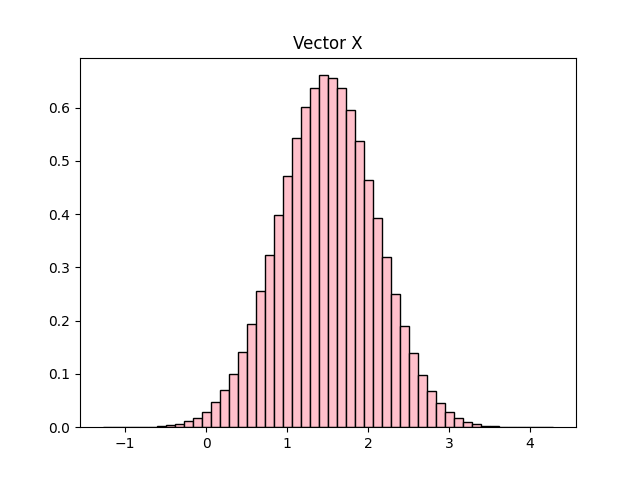
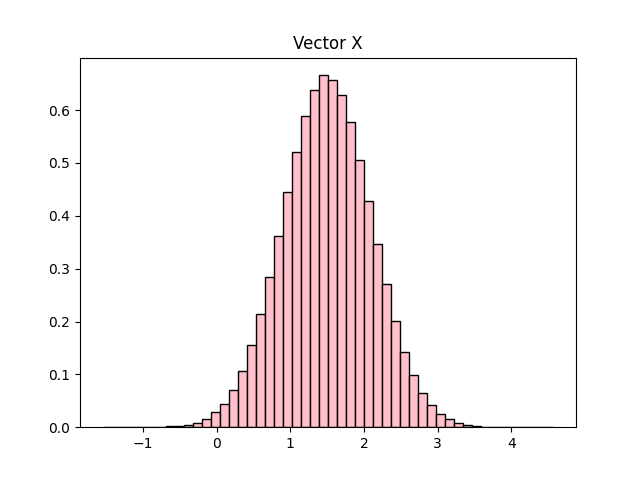
updated ps1q5

diff --git a/ps1_python_Sin_Beryl/ps1.py b/ps1_python_Sin_Beryl/ps1.py
@@ -7,10 +7,9 @@ import numpy as np
 import matplotlib.pyplot as plt
 from datetime import datetime
 import itertools
+from sklearn.utils import shuffle
 
 #----------------------------------QUESTION-3-PART-A---------------------------------------------
-# seed random number generator
-np.random.seed(1)
 # generate a 1000000x1 vector x of random numbers from a Gaussian distribution
 vector_x = np.random.randn(1000000)
 # scale vector x to ensure a mean of 1.5 with a standard deviation of 0.6
@@ -29,8 +28,6 @@ plt.hist(vector_x, bins=50, color='Pink', edgecolor='Black', density=True)
 plt.title('Vector X')
 plt.savefig('output/ps1-3-c-1.png') # output
 
-hist_x.show()
-
 # normalized histogram for vector y
 hist_z = plt.figure(2)
 plt.hist(vector_z, bins=50, color='Cyan', edgecolor='Black', density=True)
@@ -46,6 +43,7 @@ for i in itertools.product(*[range(s) for s in vector_x.shape]):
 # calculate and print execution time
 end_time = datetime.now() - start_time
 print('Question 3D execution time in hh:mm:ss : ', end_time)
+print('\n') # space
 
 
 #----------------------------------QUESTION-3-PART-E---------------------------------------------
@@ -56,6 +54,7 @@ vector_x += 1
 # calculate and print execution time
 end_time = datetime.now() - start_time
 print('Question 3E execution time in hh:mm:ss : ', end_time)
+print('\n') # space
 
 #----------------------------------QUESTION-3-PART-F---------------------------------------------
 # generate vector y containing elements that are numbers in vector z that are > 0 and < 1.5
@@ -65,6 +64,22 @@ for i in vector_z:
         vector_y.append(i)
 # print out number of elements in vector y
 print('Question 3F # elements :', len(vector_y))
+print('\n') # space
+
+# a function that does the above
+def q3PartFFunction():
+    vector_z = np.random.uniform(-1, 3, 1000000)
+    vector_y = [] # will be 1D
+    for i in vector_z:
+        if i > 0 and i < 1.5:
+            vector_y.append(i)
+    return vector_y
+
+# print out number of elements in vector y 2 more times (as if the code was ran twice more)
+print('Question 3F # elements (2nd time) :', len(q3PartFFunction()))
+print('\n') # space
+print('Question 3F # elements (3rd time) :', len(q3PartFFunction()))
+print('\n') # space
 
 #----------------------------------QUESTION-4-PART-A---------------------------------------------
 # define matrix a
@@ -96,7 +111,8 @@ print('Question 4A max values : ', r0_max, r1_max, r2_max)
 print('Question 4A highest value : ', max_value)
 print('Question 4A sums : ', c0_sum, c1_sum, c2_sum)
 print('Question 4A total sum : ', total_sum)
-print('Question 4A matrix b : ', matrix_b)
+print('Question 4A matrix b : \n', matrix_b)
+print('\n') # space
 
 #----------------------------------QUESTION-4-PART-B---------------------------------------------
 # define coefficient matrix
@@ -109,6 +125,7 @@ matrix_x = np.dot(np.linalg.inv(matrix_a), matrix_b)
 print('Question 4B x value : ', matrix_x[0])
 print('Question 4B y value : ', matrix_x[1])
 print('Question 4B z value : ', matrix_x[2])
+print('\n') # space
 
 #----------------------------------QUESTION-4-PART-C---------------------------------------------
 # define vector 1
@@ -118,7 +135,7 @@ vector_two = np.array([[-1, 1, 0]])
 # find 1-norm of each vector, adding all the magnitude values of each element
 x1_1norm = np.linalg.norm(vector_one[0, :], 1)
 x2_1norm = np.linalg.norm(vector_two[0, :], 1)
-# find 2-norm of each vector, distance - sqrt of sum of squared values of each element
+# find 2-norm of each vector, distance: sqrt of sum of squared values of each element
 x1_2norm = np.linalg.norm(vector_one[0, :], 2)
 x2_2norm = np.linalg.norm(vector_two[0, :], 2)
 # print results
@@ -126,4 +143,86 @@ print('Question 4C x1 1-norm value : ', x1_1norm)
 print('Question 4C x2 1-norm value : ', x2_1norm)
 print('Question 4C x1 2-norm value : ', x1_2norm)
 print('Question 4C x2 2-norm value : ', x2_2norm)
+print('\n') # space
+
+#----------------------------------QUESTION-5-PART-A---------------------------------------------
+# define matrix x, 10x3 matrix with elements corresponding to the row index
+matrix_x = np.empty((10, 3), 'object')
+for r in range(10):
+    matrix_x[r, :] = r + 1
+# define vector y, 10x1 vector with elements going from 1 to 10
+vector_y = np.empty((10, 1), 'object')
+for i in range(10):
+    vector_y[i] = i + 1
+# print matrix x
+print('Question 5A matrix x : \n', matrix_x)
+print('\n') # space
+
+#----------------------------------QUESTION-5-PART-B---------------------------------------------
+# define temporary vector used to store indices
+temp_vector = [0, 1, 2, 3, 4, 5, 6, 7, 8, 9]
+# define X_train, 8x3 matrix, and X_test, 2x3 matrix
+X_train = np.empty((8, 3), 'object')
+X_test = np.empty((2, 3), 'object')
+# shuffle temp_vector
+temp_vector = shuffle(temp_vector, random_state=0)
+# used shuffled vector to determine which rows from matrix_x become X_train and X_test
+for i in range(len(temp_vector)):
+    if i < 8:
+        X_train[i, :] = matrix_x[temp_vector[i], :]
+    else:
+        X_test[i - 8, :] = matrix_x[temp_vector[i], :]
+# print out resulting X_train and X_test
+print('Question 5B X_train : \n', X_train)
+print('Question 5B X_test : \n', X_test)
+print('\n') # space
+
+#----------------------------------QUESTION-5-PART-C---------------------------------------------
+# define y_train, 8x1 vector, and y_test, 2x1 vector
+y_train = np.empty((8, 1), 'object')
+y_test = np.empty((2, 1), 'object')
+# used shuffled vector to determine which rows from vector_y become y_train and y_test
+for i in range(len(temp_vector)):
+    if i < 8:
+        y_train[i, :] = vector_y[temp_vector[i], :]
+    else:
+        y_test[i - 8, :] = vector_y[temp_vector[i], :]
+# print out resulting y_train and y_test
+print('Question 5C y_train : \n', y_train)
+print('Question 5C y_test : \n', y_test)
+print('\n') # space
+
+#----------------------------------QUESTION-5-PART-D---------------------------------------------
+# a function that combines what was done in both parts B and C
+def q5PartCFunction(temp_vector, matrix_x, vector_y, iteration):
+    # shuffle temp_vector
+    temp_vector = shuffle(temp_vector)
+    # define X_train, 8x3 matrix, and X_test, 2x3 matrix
+    X_train = np.empty((8, 3), 'object')
+    X_test = np.empty((2, 3), 'object')
+    # define y_train, 8x1 vector, and y_test, 2x1 vector
+    y_train = np.empty((8, 1), 'object')
+    y_test = np.empty((2, 1), 'object')
+    # used shuffled vector to determine which rows from matrix_x become X_train and X_test
+    # and which rows from vector_y become y_train and y_test
+    for i in range(len(temp_vector)):
+        if i < 8:
+            X_train[i, :] = matrix_x[temp_vector[i], :]
+            y_train[i, :] = vector_y[temp_vector[i], :]
+        else:
+            X_test[i - 8, :] = matrix_x[temp_vector[i], :]
+            y_test[i - 8, :] = vector_y[temp_vector[i], :]
+    # print out results
+    print('Question 5D X_train (Rerun #' + iteration + ') : \n', X_train)
+    print('Question 5D X_test (Rerun #' + iteration + ') : \n', X_test)
+    print('Question 5D y_train (Rerun #' + iteration + ') : \n', y_train)
+    print('Question 5D y_test (Rerun #' + iteration + ') : \n', y_test)
+    print('\n') # space
+    return
+
+# calls the function above to print out results when the indices that divide the matrices 
+# are shuffled 3 more times
+q5PartCFunction(temp_vector, matrix_x, vector_y, '1')
+q5PartCFunction(temp_vector, matrix_x, vector_y, '2')
+q5PartCFunction(temp_vector, matrix_x, vector_y, '3')
 
